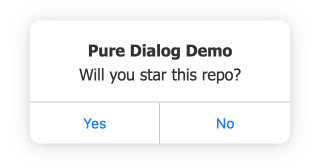
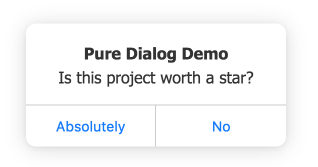
Updated read me screenshot to match example

diff --git a/index.html b/index.html
@@ -69,8 +69,8 @@
             This won't show anything visually. You need to use JavaScript APIs to show / hide it.
         </p>
 <pre>
-&lt;pure-dialog id="example" title="Pure Dialog Demo" buttons="Yes, No"&gt;
-    Will you star this repo?
+&lt;pure-dialog id="example" title="Pure Dialog Demo" buttons="Absolutely, No"&gt;
+    Is this project worth a star?
 &lt;/pure-dialog&gt;
 </pre>
 <pre>
@@ -95,8 +95,8 @@ document.addEventListener('pure-dialog-button-clicked', function(e) {
             alert(e.detail + ' clicked!');
         });
     </script>
-    <pure-dialog id="example" title="Pure Dialog Demo" buttons="Yes, No">Will you star this repo?</pure-dialog>
-        
-        
+    <pure-dialog id="example" title="Pure Dialog Demo" buttons="Absolutely, No">
+        Is this project worth a star?
+    </pure-dialog>
     </body>
 </html>
